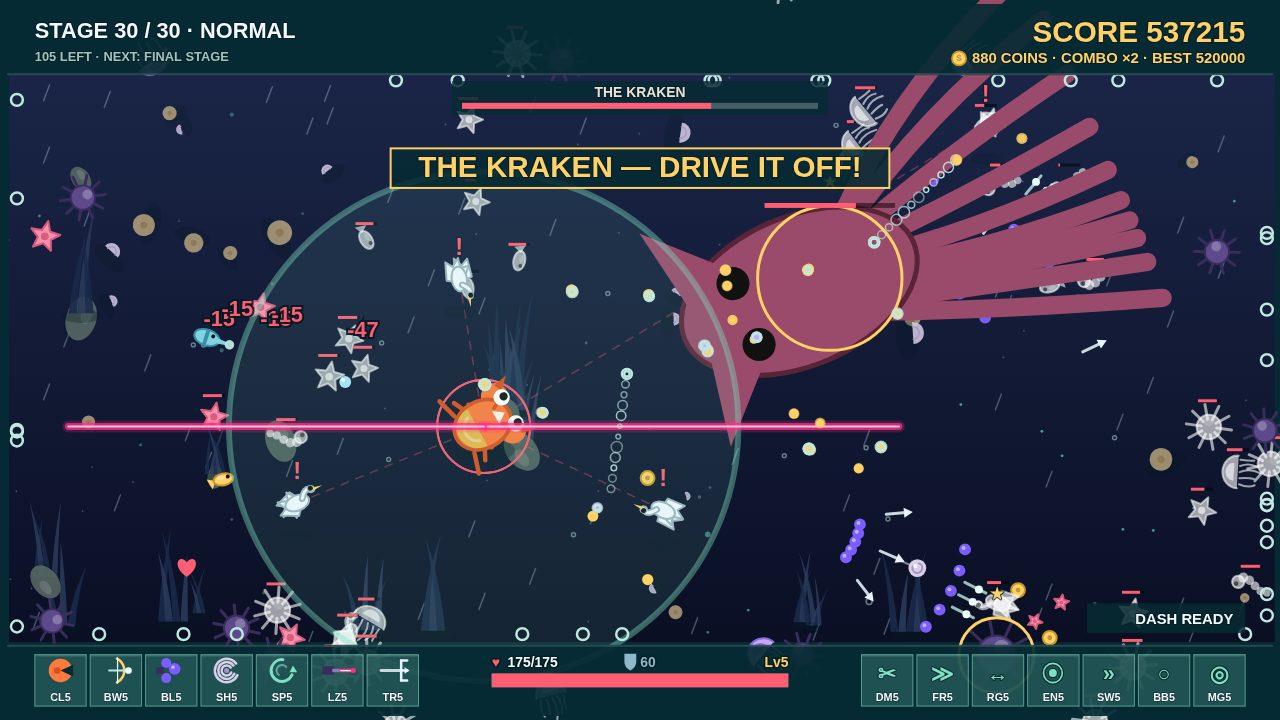
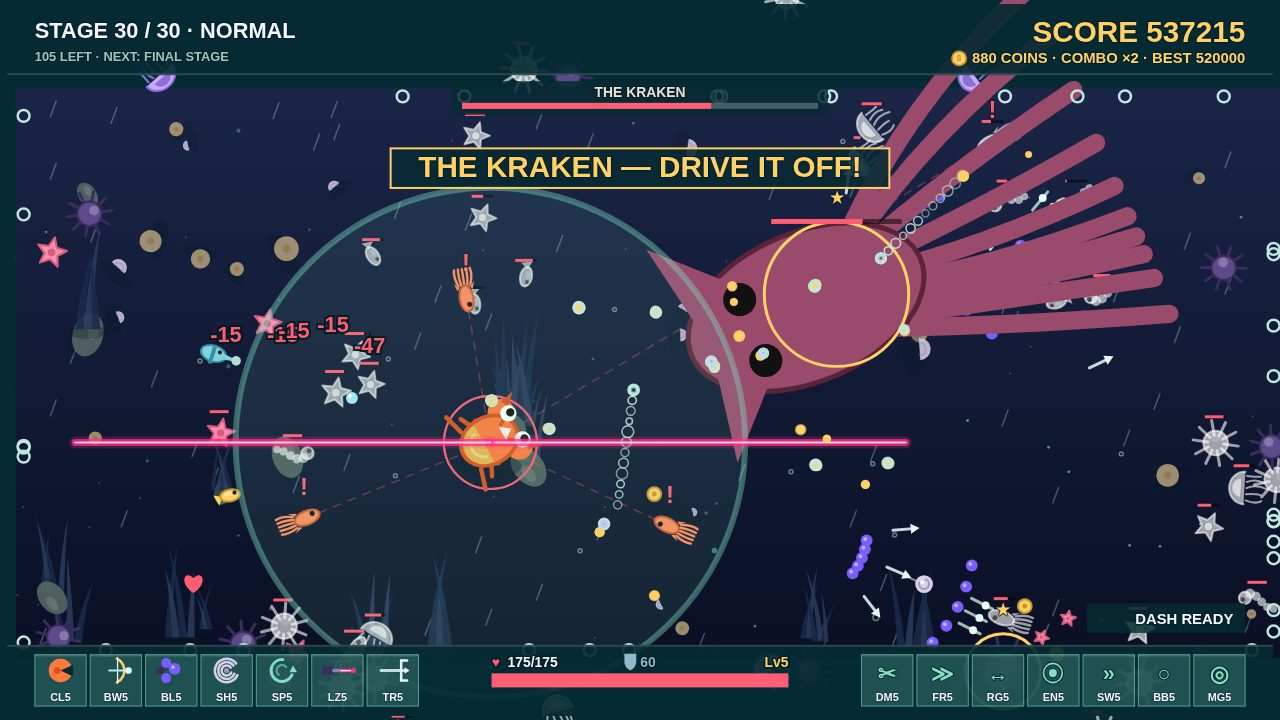
TIDEKEEPER v24: achievements panel bigger content + snug frame, gull summons become squids

diff --git a/game/src/render/overlays.js b/game/src/render/overlays.js
@@ -9,8 +9,8 @@ const BIG = { x: 140, y: 60, w: 1000, h: 580 }; // the help panel
 const BIG_CLOSE = { x: 560, y: 576, w: 160, h: 44 };
 const HIST_PANEL = { x: 140, y: 60, w: 1000, h: 360 }; // history: 3 short tables
 const HIST_CLOSE = { x: 560, y: 356, w: 160, h: 44 };
-const FEAT_PANEL = { x: 140, y: 60, w: 1000, h: 580 }; // awards only, centred
-const FEAT_CLOSE = { x: 560, y: 576, w: 160, h: 44 };
+const FEAT_PANEL = { x: 280, y: 60, w: 720, h: 570 }; // awards only, centred, snug frame
+const FEAT_CLOSE = { x: 560, y: 560, w: 160, h: 44 };
 const SET_PANEL = { x: 440, y: 240, w: 400, h: 240 };
 const SET_CLOSE = { x: 560, y: 420, w: 160, h: 44 };
 const SET_SOUND = { x: 640, y: 300, w: 120, h: 36 };
@@ -45,7 +45,7 @@ function dimHint(ctx, y) {
 // One line per creature: what it does, in ≤5 words.
 const BEHAVIOUR = {
   guppy: 'swims straight at you', jelly: 'drifts in, wobbling', urchin: 'slow and tough',
-  starfish: 'splits into two minis', eel: 'winds up, then lunges', gull: 'circles, then dives',
+  starfish: 'splits into two minis', eel: 'winds up, then lunges', squid: 'circles, then dives',
   archer: 'spits water jets at you',
 };
 
@@ -109,35 +109,35 @@ export function drawAchievements(ctx, state) {
   ctx.fillStyle = 'rgba(6,42,51,0.6)'; ctx.fillRect(0, 0, 1280, 720);
   panel(ctx, FEAT_PANEL);
   ctx.textAlign = 'center';
-  ctx.font = 'bold 28px sans-serif';
-  txt(ctx, 'ACHIEVEMENTS', VIEW_W / 2, 100, PAL.gold);
+  ctx.font = 'bold 30px sans-serif';
+  txt(ctx, 'ACHIEVEMENTS', VIEW_W / 2, 105, PAL.gold);
   const title = bestTitle(wins);
   if (title) {
-    ctx.font = 'bold 15px sans-serif';
-    txt(ctx, `YOUR TITLE: ${title}`, VIEW_W / 2, 140, PAL.gold);
+    ctx.font = 'bold 16px sans-serif';
+    txt(ctx, `YOUR TITLE: ${title}`, VIEW_W / 2, 142, PAL.gold);
   }
-  // 9 awards, centred.
+  // 9 awards, centred, big icons in a snug frame.
   for (let d = 0; d < DIFF_ORDER.length; d += 1) {
     const diff = DIFF_ORDER[d];
     const w = wins[diff] || 0;
-    const y = 196 + d * 128;
+    const y = 185 + d * 125;
     ctx.textAlign = 'left';
-    ctx.font = 'bold 14px sans-serif';
-    txt(ctx, `${DIFFICULTIES[diff].label} — ${w} WIN${w === 1 ? '' : 'S'}`, 440, y, PAL.text);
+    ctx.font = 'bold 18px sans-serif';
+    txt(ctx, `${DIFFICULTIES[diff].label} — ${w} WIN${w === 1 ? '' : 'S'}`, 330, y, PAL.text);
     for (let t = 0; t < AWARD_TIERS.length; t += 1) {
       const tier = AWARD_TIERS[t];
       const got = w >= tier.wins;
-      const cx = 480 + t * 160;
-      drawAwardIcon(ctx, AWARD_KIND[diff], cx, y + 40, 44, tier.color, !got);
-      ctx.font = 'bold 12px sans-serif'; ctx.textAlign = 'center';
-      txt(ctx, `${tier.metal} ${AWARD_KIND[diff]}`, cx, y + 74, got ? tier.color : PAL.dim);
-      ctx.font = '11px sans-serif';
-      txt(ctx, got ? 'EARNED' : `WIN ${tier.wins}×`, cx, y + 90, got ? '#7fe0c3' : PAL.dim);
+      const cx = 460 + t * 180;
+      drawAwardIcon(ctx, AWARD_KIND[diff], cx, y + 42, 60, tier.color, !got);
+      ctx.font = 'bold 15px sans-serif'; ctx.textAlign = 'center';
+      txt(ctx, `${tier.metal} ${AWARD_KIND[diff]}`, cx, y + 80, got ? tier.color : PAL.dim);
+      ctx.font = '13px sans-serif';
+      txt(ctx, got ? 'EARNED' : `WIN ${tier.wins}×`, cx, y + 99, got ? '#7fe0c3' : PAL.dim);
       ctx.textAlign = 'left';
     }
   }
   closeButton(ctx, FEAT_CLOSE);
-  dimHint(ctx, 664);
+  dimHint(ctx, 655);
 }
 
 export function drawHistory(ctx, state) {

diff --git a/game/src/render/creatures.js b/game/src/render/creatures.js
@@ -171,39 +171,24 @@ export function drawEnemy(ctx, e, t, ang) {
       ctx.fillStyle = 'rgba(191,232,224,0.95)';
       ctx.beginPath(); ctx.arc(e.r * 1.85, 0, 3 + (0.35 - e.windup) * 12, 0, Math.PI * 2); ctx.fill();
     }
-  } else if (e.type === 'gull') { // small seabird
-    ctx.fillStyle = 'rgba(4,26,32,0.22)';
-    ctx.beginPath(); ctx.ellipse(0, e.r * 2.4, e.r * 1.1, e.r * 0.45, 0, 0, Math.PI * 2); ctx.fill();
+  } else if (e.type === 'squid') { // small squid: mantle + trailing tentacles
     ctx.rotate(face);
-    const flap = Math.sin(t * 10 + e.wob) * 0.7;
-    ctx.fillStyle = flash ? '#fff' : e.color;
-    for (const sgn of [-1, 1]) { // feathered wings
-      ctx.save(); ctx.translate(-2, sgn * 4); ctx.rotate(sgn * (0.5 + flap * 0.5));
-      ctx.beginPath();
-      ctx.moveTo(e.r * 0.3, -8);
-      ctx.lineTo(-e.r * 1.0, -12); ctx.lineTo(-e.r * 0.75, -4);
-      ctx.lineTo(-e.r * 1.45, 0); ctx.lineTo(-e.r * 0.75, 4);
-      ctx.lineTo(-e.r * 1.0, 12); ctx.lineTo(e.r * 0.3, 8);
-      ctx.closePath(); ctx.fill();
-      ol(ctx, flash ? '#fff' : e.dark, 2);
-      ctx.restore();
+    const wig = Math.sin(t * 8 + e.wob) * 0.2;
+    ctx.strokeStyle = flash ? '#fff' : e.color; ctx.lineCap = 'round'; ctx.lineWidth = 2.5;
+    for (let i = -2; i <= 2; i += 1) { // 5 tentacles trail behind
+      ctx.beginPath(); ctx.moveTo(-e.r * 0.7, i * 3);
+      ctx.quadraticCurveTo(-e.r * 1.4, i * 5 + wig * 8, -e.r * 1.9, i * 4 + wig * 10);
+      ctx.stroke();
     }
-    ctx.beginPath(); ctx.ellipse(0, 0, e.r * 0.9, e.r * 0.55, 0, 0, Math.PI * 2); ctx.fill();
-    ol(ctx, flash ? '#fff' : e.dark, 2);
-    const neck = new Path2D();
-    neck.moveTo(e.r * 0.45, -e.r * 0.15);
-    neck.quadraticCurveTo(e.r * 0.9, -e.r * 0.85, e.r * 1.25, -e.r * 0.55);
-    ctx.lineCap = 'round';
-    ctx.strokeStyle = flash ? '#fff' : e.dark; ctx.lineWidth = e.r * 0.2 + 4; ctx.stroke(neck);
-    ctx.strokeStyle = flash ? '#fff' : e.color; ctx.lineWidth = e.r * 0.2; ctx.stroke(neck);
     ctx.fillStyle = flash ? '#fff' : e.color;
-    ctx.beginPath(); ctx.arc(e.r * 1.3, -e.r * 0.55, e.r * 0.22, 0, Math.PI * 2); ctx.fill();
+    ctx.beginPath(); ctx.ellipse(e.r * 0.25, 0, e.r * 0.95, e.r * 0.5, 0, 0, Math.PI * 2); ctx.fill();
     ol(ctx, flash ? '#fff' : e.dark, 2);
-    ctx.fillStyle = flash ? '#fff' : '#ffd166';
-    ctx.beginPath();
-    ctx.moveTo(e.r * 1.42, -e.r * 0.62); ctx.lineTo(e.r * 2.15, -e.r * 0.5); ctx.lineTo(e.r * 1.42, -e.r * 0.38);
-    ctx.closePath(); ctx.fill();
-    ctx.fillStyle = '#111'; ctx.beginPath(); ctx.arc(e.r * 1.28, -e.r * 0.62, 2.5, 0, Math.PI * 2); ctx.fill();
+    for (const sgn of [-1, 1]) { // side fins
+      ctx.beginPath();
+      ctx.moveTo(-e.r * 0.55, sgn * e.r * 0.4); ctx.lineTo(-e.r * 0.95, sgn * e.r * 0.75); ctx.lineTo(-e.r * 0.35, sgn * e.r * 0.55);
+      ctx.closePath(); ctx.fill();
+    }
+    ctx.fillStyle = '#111'; ctx.beginPath(); ctx.arc(e.r * 0.7, -e.r * 0.15, 2.5, 0, Math.PI * 2); ctx.fill();
   } else if (e.boss) { // sea-beast bosses
     const s = e.r / 26, R = e.r;
     const col = flash ? '#fff' : e.color, drk = flash ? '#fff' : e.dark;

diff --git a/game/src/config.js b/game/src/config.js
@@ -36,7 +36,7 @@ export const ENEMIES = {
   urchin:   { hp: 66, speed: 37,  dmg: 10, r: 20, score: 30, coins: 3, color: '#5d4a8a', dark: '#3a2d5e' },
   starfish: { hp: 32, speed: 72,  dmg: 6,  r: 15, score: 20, coins: 2, color: '#ff8fb0', dark: '#d65d7e' },
   eel:      { hp: 18, speed: 152, dmg: 8,  r: 12, score: 30, coins: 2, color: '#7fe0c3', dark: '#3fae8c' },
-  gull:     { hp: 28, speed: 176, dmg: 8,  r: 14, score: 40, coins: 2, color: '#f4f9ff', dark: '#9fb4c0' },
+  squid:     { hp: 28, speed: 176, dmg: 8,  r: 14, score: 40, coins: 2, color: '#ff8a5c', dark: '#c75a30' },
   archer:   { hp: 20, speed: 95,  dmg: 3,  r: 13, score: 35, coins: 2, color: '#7fd4e0', dark: '#3a8ea8' },
   mini:     { hp: 8,  speed: 118, dmg: 5,  r: 8,  score: 5,  coins: 1, color: '#ff8fb0', dark: '#d65d7e' },
 };
@@ -64,16 +64,16 @@ export const STAGES = Array.from({ length: STAGE_COUNT }, (_, i) => {
 });
 
 export function spawnWeights(stage) {
-  const w = { guppy: 10, jelly: 4, urchin: 2, starfish: 3, eel: 0, gull: 0, archer: 0 };
+  const w = { guppy: 10, jelly: 4, urchin: 2, starfish: 3, eel: 0, squid: 0, archer: 0 };
   if (stage >= 2) w.eel = 2;
   if (stage >= 3) { w.urchin = 4; w.jelly = 6; }
-  if (stage >= 5) w.gull = 4;
+  if (stage >= 5) w.squid = 4;
   if (stage >= 7) { w.urchin = 6; w.eel = 3; w.guppy = 7; }
   if (stage >= 12) { w.jelly = 8; w.starfish = 5; w.archer = 2; }
   if (stage >= 15) w.archer = 3;
-  if (stage >= 18) { w.urchin = 8; w.eel = 4; w.gull = 6; }
+  if (stage >= 18) { w.urchin = 8; w.eel = 4; w.squid = 6; }
   if (stage >= 20) w.archer = 2;
-  if (stage >= 24) { w.guppy = 5; w.jelly = 9; w.urchin = 10; w.eel = 5; w.gull = 7; w.starfish = 6; }
+  if (stage >= 24) { w.guppy = 5; w.jelly = 9; w.urchin = 10; w.eel = 5; w.squid = 7; w.starfish = 6; }
   if (stage >= 26) w.archer = 1;
   return w;
 }
@@ -134,9 +134,9 @@ export const AWARD_TITLES = ['Tide Guardian', 'Kraken Slayer', 'Tidekeeper Legen
 
 export const CREATURE_NAMES = {
   guppy: 'GUPPY', jelly: 'JELLY', urchin: 'URCHIN',
-  starfish: 'STARFISH', eel: 'EEL', gull: 'GULL', archer: 'ARCHER',
+  starfish: 'STARFISH', eel: 'EEL', squid: 'SQUID', archer: 'ARCHER',
 };
-export const CREATURE_ORDER = ['guppy', 'jelly', 'urchin', 'starfish', 'eel', 'gull', 'archer'];
+export const CREATURE_ORDER = ['guppy', 'jelly', 'urchin', 'starfish', 'eel', 'squid', 'archer'];
 
 export const COMBO_WINDOW = 3.0;
 export const COMBO_MAX = 8;

diff --git a/game/src/enemies.js b/game/src/enemies.js
@@ -40,7 +40,7 @@ function spawnBoss(state, fx, audio) {
   state.bossSpawned = true;
   const def = bossForStage(state.stage);
   const diff = DIFFICULTIES[state.difficulty || 'normal'];
-  const b = spawnEnemy(state, 'gull', true, fx);
+  const b = spawnEnemy(state, 'squid', true, fx);
   b.type = def.type;
   b.boss = true;
   b.name = def.name;
@@ -79,14 +79,14 @@ export function updateSpawner(state, dt, fx, audio) {
   if (plan.boss && !state.bossSpawned && state.stageSpawned >= plan.budget / 2) {
     spawnBoss(state, fx, audio);
   }
-  // A summoning boss calls gulls.
-  // Called gulls fly in from the edges — never pop by the boss.
+  // A summoning boss calls squids.
+  // Called squids fly in from the edges — never pop by the boss.
   if (state.boss && state.boss.summonN > 0) {
     state.boss.summonT -= dt;
     if (state.boss.summonT <= 0 && state.enemies.length < 55) {
       state.boss.summonT = state.boss.summonEvery;
       for (let i = 0; i < state.boss.summonN; i += 1) {
-        const g = spawnEnemy(state, 'gull', false, fx);
+        const g = spawnEnemy(state, 'squid', false, fx);
         g.state = 'approach';
       }
       fx.burst(state.boss.x, state.boss.y, state.boss.color, 10, 160);
@@ -124,7 +124,7 @@ export function updateEnemies(state, dt) {
         const strafe = want === 0 ? Math.sin(e.wob * 0.7) * 0.8 : 0;
         e.x += (nx * want - ny * strafe) * sp * dt; e.y += (ny * want + nx * strafe) * sp * dt;
       }
-    } else if (e.type === 'gull' || e.boss) { // swoopers circle, then dive
+    } else if (e.type === 'squid' || e.boss) { // swoopers circle, then dive
       e.diveT -= dt;
       const boss = !!e.boss;
       if (e.state === 'approach' && d < 200) { e.state = 'circle'; e.diveT = boss ? 0.8 : 1.1; }

diff --git a/game/src/render.js b/game/src/render.js
@@ -52,7 +52,7 @@ export function createRenderer(canvas) {
       drawPool(ctx, state, rt);
       // Dive telegraph: dashed line, ring, "!".
       for (const e of state.enemies) {
-        if ((e.type === 'gull' || e.boss) && e.state === 'circle' && e.diveT < 0.6) {
+        if ((e.type === 'squid' || e.boss) && e.state === 'circle' && e.diveT < 0.6) {
           const ix = lerp(e.px ?? e.x, e.x), iy = lerp(e.py ?? e.y, e.y);
           const jx = lerp(state.player.px ?? state.player.x, state.player.x);
           const jy = lerp(state.player.py ?? state.player.y, state.player.y);

diff --git a/game/src/state.js b/game/src/state.js
@@ -30,7 +30,7 @@ export function createState(rng, seed, difficulty = 'normal') {
     }
   }
   const mix = {};
-  for (const k of ['guppy', 'jelly', 'urchin', 'starfish', 'eel', 'gull', 'archer']) mix[k] = rng.range(0.85, 1.2);
+  for (const k of ['guppy', 'jelly', 'urchin', 'starfish', 'eel', 'squid', 'archer']) mix[k] = rng.range(0.85, 1.2);
   return {
     rng, seed, decor, theme, mix, time: 0, phase: 'title', menuSel: 0,
     difficulty, // 'easy' | 'normal' | 'hard' — set on the title

diff --git a/game/src/shots.js b/game/src/shots.js
@@ -108,7 +108,7 @@ export function stageShot(shot, seed, fx, audio) {
 
         if (shot === 'storm') s.player.armor = Math.max(s.player.armor, 60);
         for (let i = 0; i < 3; i += 1) {
-          const g = spawnEnemy(s, 'gull', false);
+          const g = spawnEnemy(s, 'squid', false);
           const a = 0.6 + i * 2.0;
           g.x = Math.min(1160, Math.max(120, s.player.x + Math.cos(a) * 220));
           g.y = Math.min(600, Math.max(170, s.player.y + Math.sin(a) * 150));
